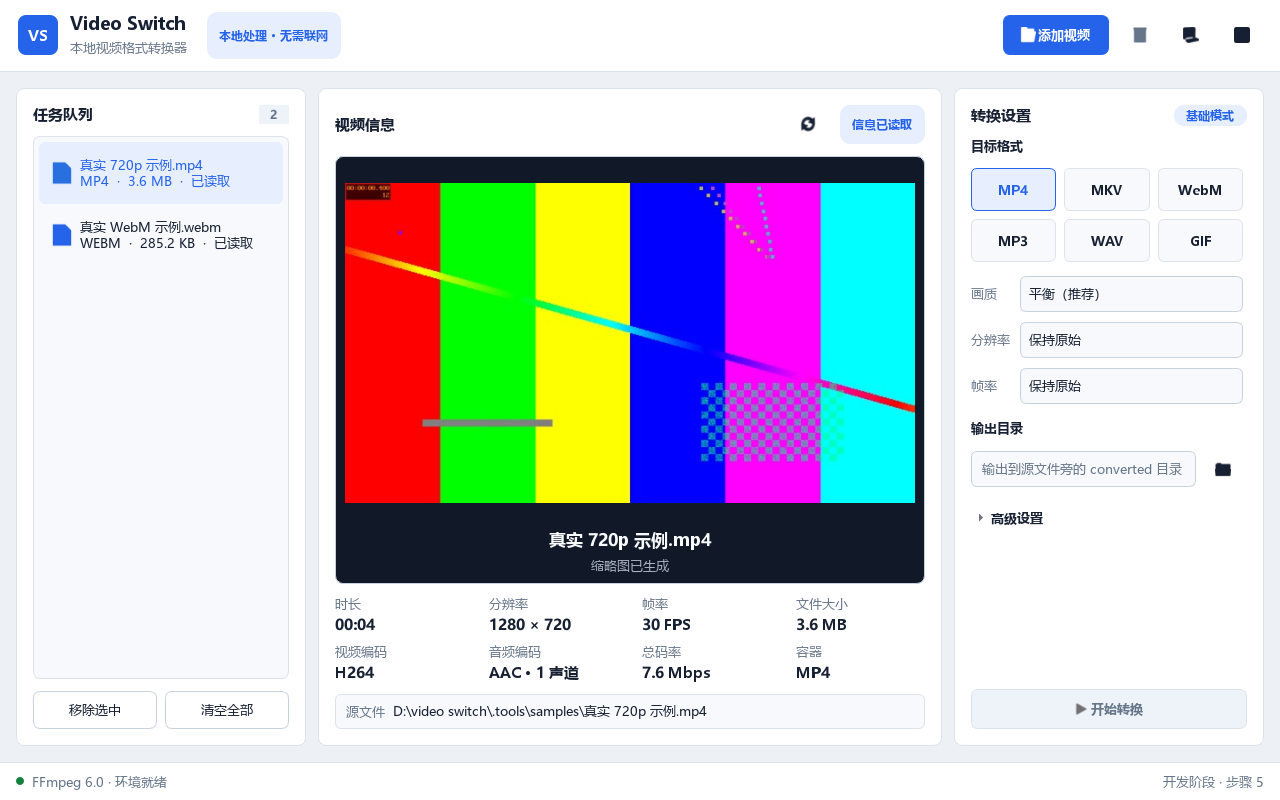
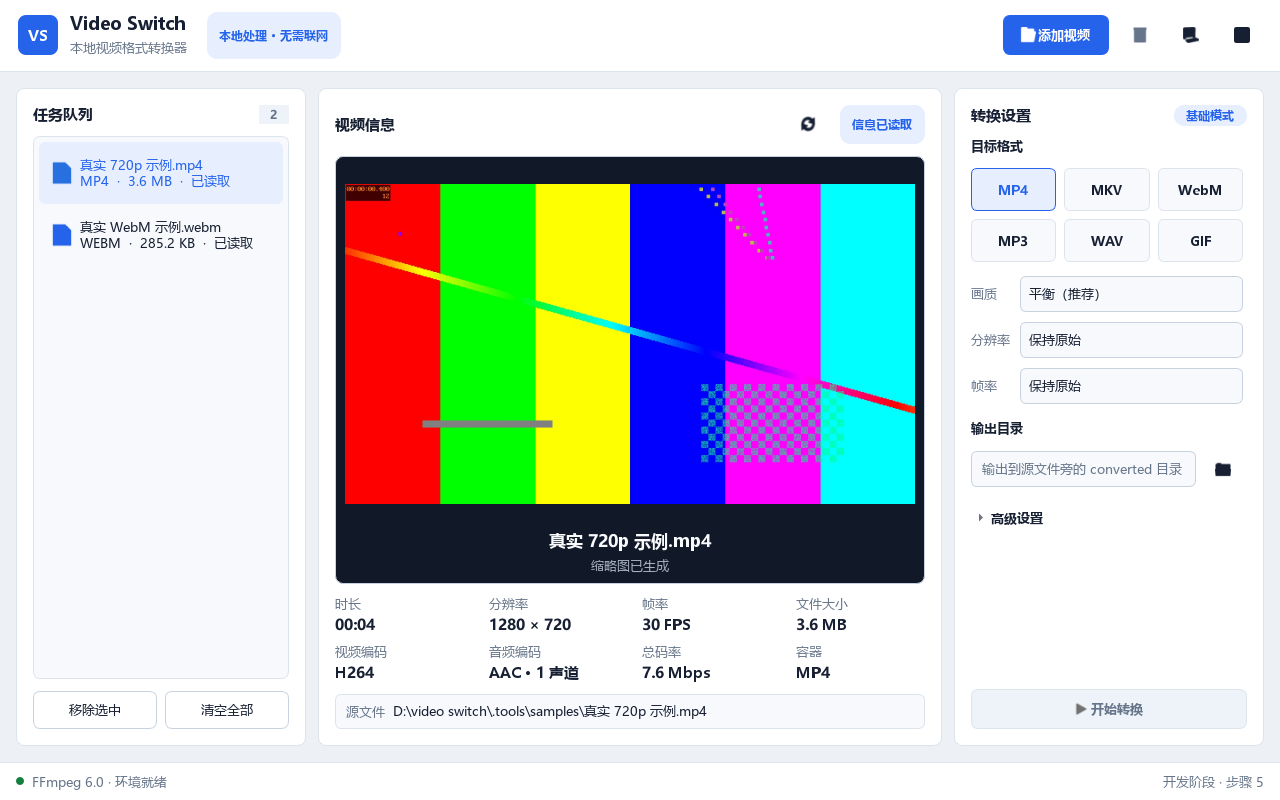
fix: improve thumbnail clarity and long names

diff --git a/src/video_switch/ui/main_window.py b/src/video_switch/ui/main_window.py
@@ -3,7 +3,15 @@
 from pathlib import Path
 
 from PySide6.QtCore import QSettings, QSize, Qt, QTimer
-from PySide6.QtGui import QColor, QDragEnterEvent, QDropEvent, QIcon, QPainter, QPixmap
+from PySide6.QtGui import (
+    QColor,
+    QDragEnterEvent,
+    QDropEvent,
+    QFontMetrics,
+    QIcon,
+    QPainter,
+    QPixmap,
+)
 from PySide6.QtWidgets import (
     QAbstractItemView,
     QButtonGroup,
@@ -105,6 +113,34 @@ class MetricItem(QWidget):
 
         layout.addWidget(caption)
         layout.addWidget(self.value_label)
+
+
+class ElidedLabel(QLabel):
+    """A single-line label that elides long text in the middle."""
+
+    def __init__(self, text: str = "") -> None:
+        super().__init__()
+        self._full_text = ""
+        self.setSizePolicy(QSizePolicy.Policy.Ignored, QSizePolicy.Policy.Preferred)
+        self.setText(text)
+
+    def setText(self, text: str) -> None:
+        self._full_text = text
+        self.setToolTip(text)
+        self.refresh_elide()
+
+    def resizeEvent(self, event) -> None:
+        super().resizeEvent(event)
+        self.refresh_elide()
+
+    def refresh_elide(self) -> None:
+        width = max(0, self.contentsRect().width())
+        displayed = QFontMetrics(self.font()).elidedText(
+            self._full_text,
+            Qt.TextElideMode.ElideMiddle,
+            width,
+        )
+        super().setText(displayed)
 
 
 class ThumbnailLabel(QLabel):
@@ -411,7 +447,7 @@ class MainWindow(QMainWindow):
         self.preview_icon.setObjectName("StageIcon")
         self.preview_icon.setAlignment(Qt.AlignmentFlag.AlignCenter)
 
-        self.preview_title = QLabel("拖入视频文件")
+        self.preview_title = ElidedLabel("拖入视频文件")
         self.preview_title.setObjectName("PreviewTitle")
         self.preview_title.setAlignment(Qt.AlignmentFlag.AlignCenter)
         self.preview_title.setWordWrap(True)
@@ -1113,6 +1149,7 @@ class MainWindow(QMainWindow):
         palette = get_palette(self.theme_name)
         self.setStyleSheet(build_stylesheet(palette))
         self._apply_icon_theme(palette)
+        self.preview_title.refresh_elide()
         target = "浅色" if palette.name == "dark" else "深色"
         self.theme_button.setToolTip(f"切换为{target}主题")
 

diff --git a/src/video_switch/services/thumbnail.py b/src/video_switch/services/thumbnail.py
@@ -9,8 +9,9 @@ from PySide6.QtCore import QObject, QProcess, QStandardPaths, QTimer, Signal
 
 from video_switch.models.media_task import MediaTask
 
-THUMBNAIL_WIDTH = 640
+THUMBNAIL_WIDTH = 1280
 THUMBNAIL_TIMEOUT_MS = 20_000
+THUMBNAIL_CACHE_VERSION = "v2"
 
 
 @dataclass(frozen=True, slots=True)
@@ -60,7 +61,7 @@ def thumbnail_positions(duration_seconds: float | None) -> tuple[float, ...]:
 
 def thumbnail_cache_path(cache_dir: Path, content_signature: str) -> Path:
     """Return a stable cache path derived from the content fingerprint."""
-    return cache_dir / f"{content_signature}.jpg"
+    return cache_dir / f"{THUMBNAIL_CACHE_VERSION}-{content_signature}.jpg"
 
 
 class ThumbnailService(QObject):
@@ -133,6 +134,7 @@ class ThumbnailService(QObject):
     def delete_cached(self, content_signature: str) -> None:
         """Delete one cached thumbnail if it exists."""
         thumbnail_cache_path(self.cache_dir, content_signature).unlink(missing_ok=True)
+        (self.cache_dir / f"{content_signature}.jpg").unlink(missing_ok=True)
 
     def _start_next(self) -> None:
         if self._current is not None or not self._queue:
@@ -181,7 +183,7 @@ class ThumbnailService(QObject):
                 "-vf",
                 (f"scale={THUMBNAIL_WIDTH}:-2:force_original_aspect_ratio=decrease"),
                 "-q:v",
-                "3",
+                "2",
                 "-y",
                 str(output_path),
             ],

diff --git a/tests/test_thumbnail.py b/tests/test_thumbnail.py
@@ -29,4 +29,4 @@ def test_thumbnail_cache_path() -> None:
 
     result = thumbnail_cache_path(cache_dir, "abc123")
 
-    assert result == cache_dir / "abc123.jpg"
+    assert result == cache_dir / "v2-abc123.jpg"

diff --git a/docs/开发决策记录.md b/docs/开发决策记录.md
@@ -151,6 +151,14 @@
 - 决策：将图标、标题和提示放入固定高度的提示容器，并在无媒体信息时隐藏重生成按钮。
 - 原因：保持空状态紧凑、明确，同时不影响缩略图加载后的底部说明布局。
 
+## DR-022 提高缩略图分辨率和长文件名适配
+
+- 状态：已接受
+- 背景：640 像素缩略图在较宽预览区放大后显得模糊，长文件名也会挤压状态区域。
+- 决策：缩略图宽度提升到 1280 像素、JPEG 质量提升，并将缓存版本升级为 `v2`；
+  文件名使用单行中部省略，悬停显示完整名称。
+- 原因：保证高清屏下预览清晰，同时让长文件名保持可识别且不破坏布局。
+
 ## 用户反馈日志
 
 | 日期 | 反馈 | 处理方式 |
@@ -167,3 +175,4 @@
 | 2026-10-11 | 用户确认开始步骤 4 | 完成异步 ffprobe 媒体信息读取 |
 | 2026-10-11 | 用户确认开始步骤 5 | 完成真实视频缩略图、缓存和重新生成 |
 | 2026-10-11 | 未导入视频时空状态布局被拉散 | 改为紧凑居中提示并隐藏无效按钮 |
+| 2026-10-11 | 长文件名被截断、缩略图偏糊 | 中部省略标题并升级到 1280 像素高质量缓存 |

diff --git a/docs/会话总结.md b/docs/会话总结.md
@@ -81,6 +81,9 @@ GitHub，并在 Releases 中提供 Windows 运行包。
 - 将空状态提示改为固定高度的居中分组，恢复紧凑、稳定的视觉层级。
 - 未选择媒体时隐藏重新生成缩略图按钮，避免出现无意义图标。
 - 为禁用的次要按钮补充灰化样式，避免用户误以为仍然可以点击。
+- 用户发现长文件名在缩略图下方被截断，改为中部省略并保留完整名称提示。
+- 用户询问缩略图是否随机抽取，确认当前使用固定的 10% 时间点及确定性回退顺序。
+- 用户反馈缩略图偏糊，生成宽度从 640 提升到 1280，JPEG 质量提升并升级缓存版本。
 - 为本地开发测试准备了 FFmpeg 6.0 和 ffprobe 6.0，存放在已忽略的
   `.tools/ffmpeg/bin`，不会提交到 Git。
 
@@ -102,5 +105,5 @@ GitHub，并在 Releases 中提供 Windows 运行包。
 
 ## 下一步
 
-等待用户重新检查步骤 5 的空状态修复。通过后进入步骤 6，完善转换参数、
-预设和输出目录功能。
+等待用户重新检查步骤 5 的长文件名和缩略图清晰度修复。通过后进入步骤 6，
+完善转换参数、预设和输出目录功能。

diff --git a/docs/FFmpeg说明.md b/docs/FFmpeg说明.md
@@ -45,11 +45,12 @@ ffprobe -v error -print_format json -show_format -show_streams input.mp4
 应用使用 ffmpeg 从指定时间点截取一帧，并缩放到适合预览的宽度：
 
 ```powershell
-ffmpeg -ss 10 -i input.mp4 -frames:v 1 -vf "scale=640:-2" -q:v 3 thumbnail.jpg
+ffmpeg -ss 10 -i input.mp4 -frames:v 1 -vf "scale=1280:-2" -q:v 2 thumbnail.jpg
 ```
 
 如果首个位置截取失败，应用会依次尝试第 1 秒、视频中段、结尾和首帧。
-生成的图片保存在应用缓存目录，不修改源视频。
+缩略图固定从视频约 10% 位置开始尝试，不是随机抽取。生成的图片保存在应用
+缓存目录，不修改源视频。
 
 ## 面试需要掌握的概念
 
